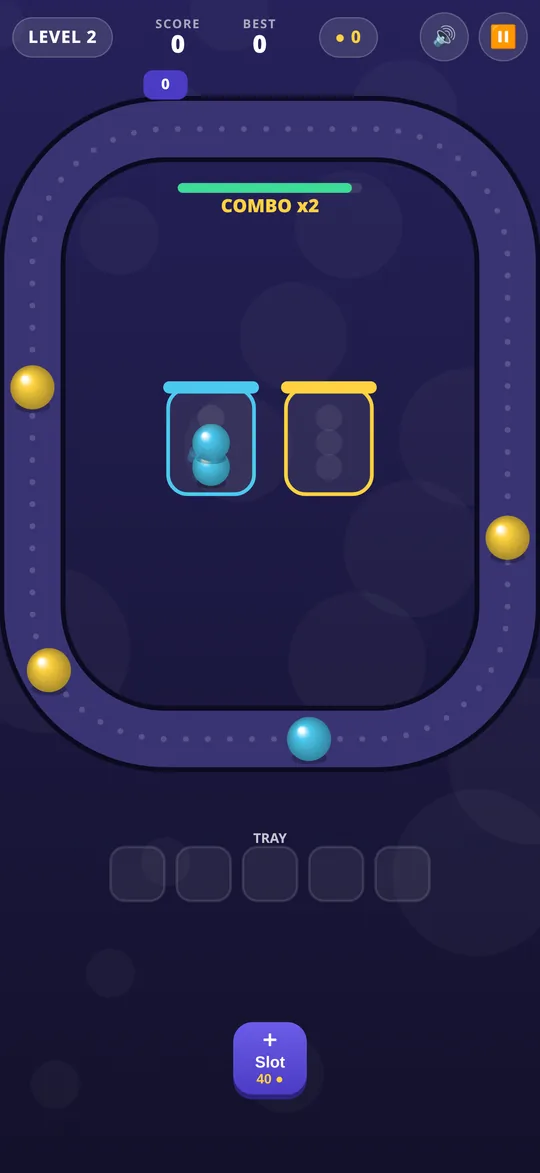
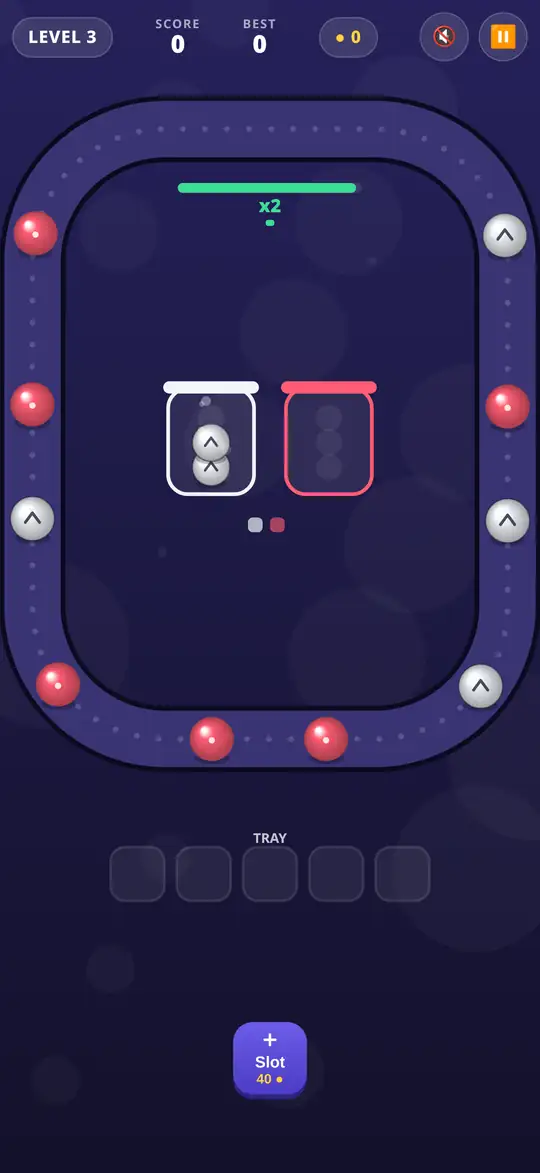
Marble Belt: new gameplay loop (fill-order events, combos, powers, stars)

diff --git a/index.html b/index.html
@@ -105,7 +105,7 @@
               <p>Tap &amp; match conveyor puzzle</p>
             </div>
           </div>
-          <p class="deck">Marbles ride around a moving conveyor belt. Tap a marble that matches an open cup and it drops right in. New colors drop in as you play, and later on, shifter marbles swap color for a score multiplier — more of them, and faster, as you climb. Fill every cup before time runs out. Sounds easy, until the belt gets busy.</p>
+          <p class="deck">Marbles ride around a moving conveyor belt. Tap a marble that matches an open cup and it drops right in. Cups can share a color. New colors drop in as you play — including decoys with no cup — and later on, marbles can swap places or turn gray for a few seconds. Shifter marbles swap color for a score multiplier, more of them and faster as you climb. Chain combos to earn Freeze, Magnet and Clear Stones powers (no ad required), grab short-lived golden marbles, and chase 1–3 stars — with a milestone every 10 levels. Fill every cup before time runs out. Sounds easy, until the belt gets busy.</p>
           <ol class="howto">
             <li><span class="n">1</span><span>Tap a marble on the belt to send it to the cup of the same color.</span></li>
             <li><span class="n">2</span><span>Wrong taps go to the tray, so choose carefully.</span></li>
@@ -113,12 +113,12 @@
           </ol>
           <ul class="features">
             <li>One-thumb tap controls and short, quick levels</li>
-            <li>Chain matches for combos and bigger scores</li>
-            <li>New twists as you climb: arriving colors, shifter marbles that get faster and more frequent, color order, locked cups, stones, rainbows and bombs</li>
+            <li>Chain matches for combos, streak coins, and earnable Freeze, Magnet and Clear Stones powers — no ad required</li>
+            <li>New twists as you climb: arriving colors, decoy colors, marbles that swap places, shifter marbles that get faster and more frequent, occasional FILL IN ORDER challenges, locked cups, stones (and ones that turn gray), rainbows and bombs</li>
             <li>Bright neon look, chunky sound effects and its own music track</li>
             <li>Play offline</li>
           </ul>
-          <p class="fine">Free to play and supported by ads. Optional ads can double your coins or add a tray slot. The first two levels stay ad-free, and you always get one free continue per level.</p>
+          <p class="fine">Free to play with light ads. Optional ads can double your coins or add a tray slot. The first two levels stay ad-free, and you always get one free continue per level.</p>
         </div>
         <div class="phones" aria-label="Marble Belt screenshots">
           <figure class="device">
@@ -131,14 +131,14 @@
           <figure class="device">
             <div class="frame">
               <span class="island" aria-hidden="true"></span>
-              <img src="mb-3.webp" width="540" height="1173" alt="Marble Belt: a shifter marble with a rainbow ring swaps color on the belt.">
+              <img src="mb-3.webp" width="540" height="1173" alt="Marble Belt: a FILL IN ORDER! pop-up challenge with numbered cups on the belt.">
             </div>
             <figcaption>Shifter marbles swap color</figcaption>
           </figure>
           <figure class="device">
             <div class="frame">
               <span class="island" aria-hidden="true"></span>
-              <img src="mb-5.webp" width="540" height="1173" alt="Marble Belt: a cleared belt and coins earned after a win.">
+              <img src="mb-5.webp" width="540" height="1173" alt="Marble Belt: a 3-star win screen after clearing the belt.">
             </div>
             <figcaption>Clear the belt, earn coins</figcaption>
           </figure>
